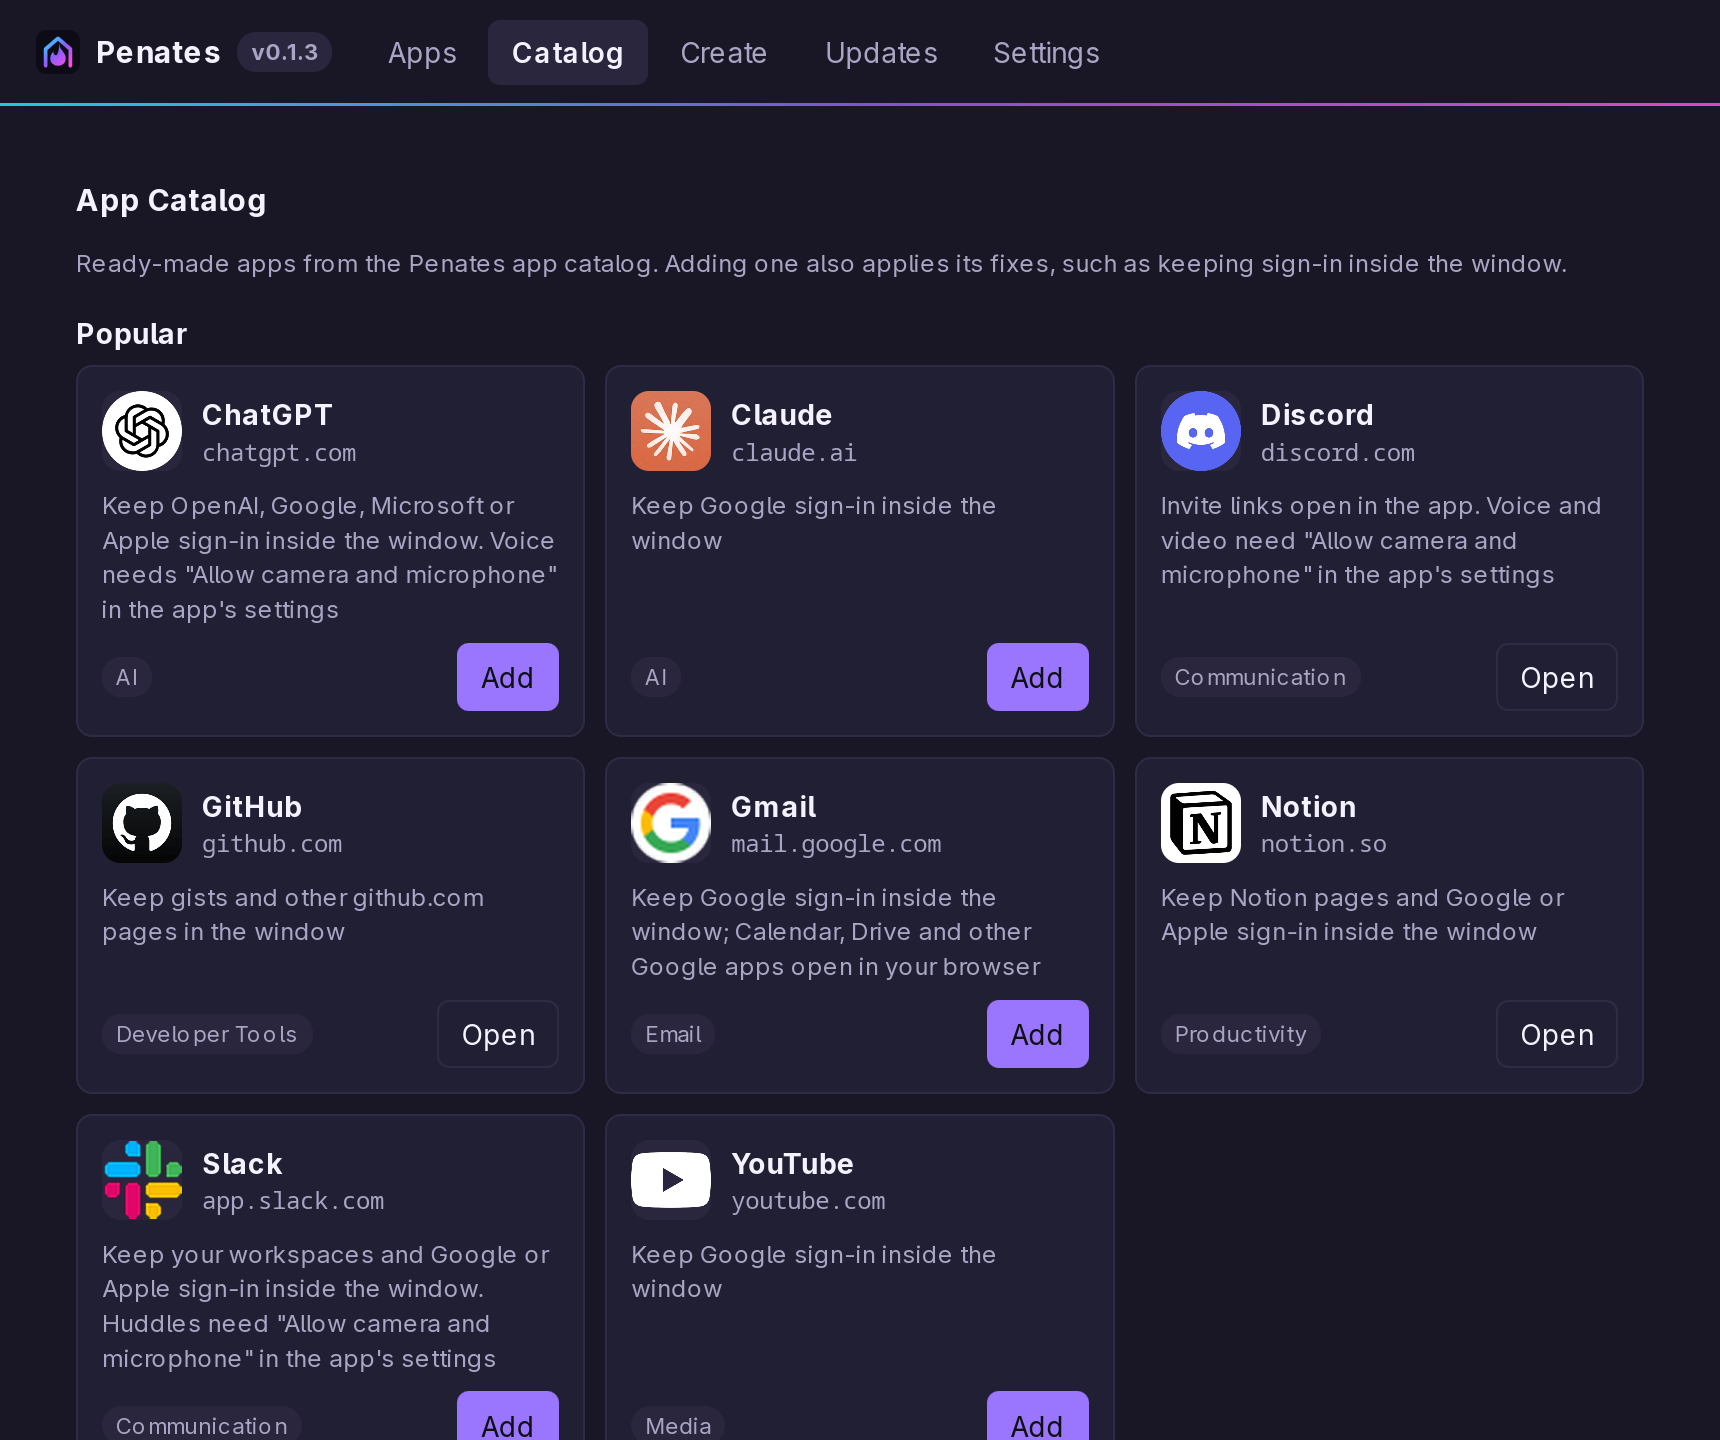
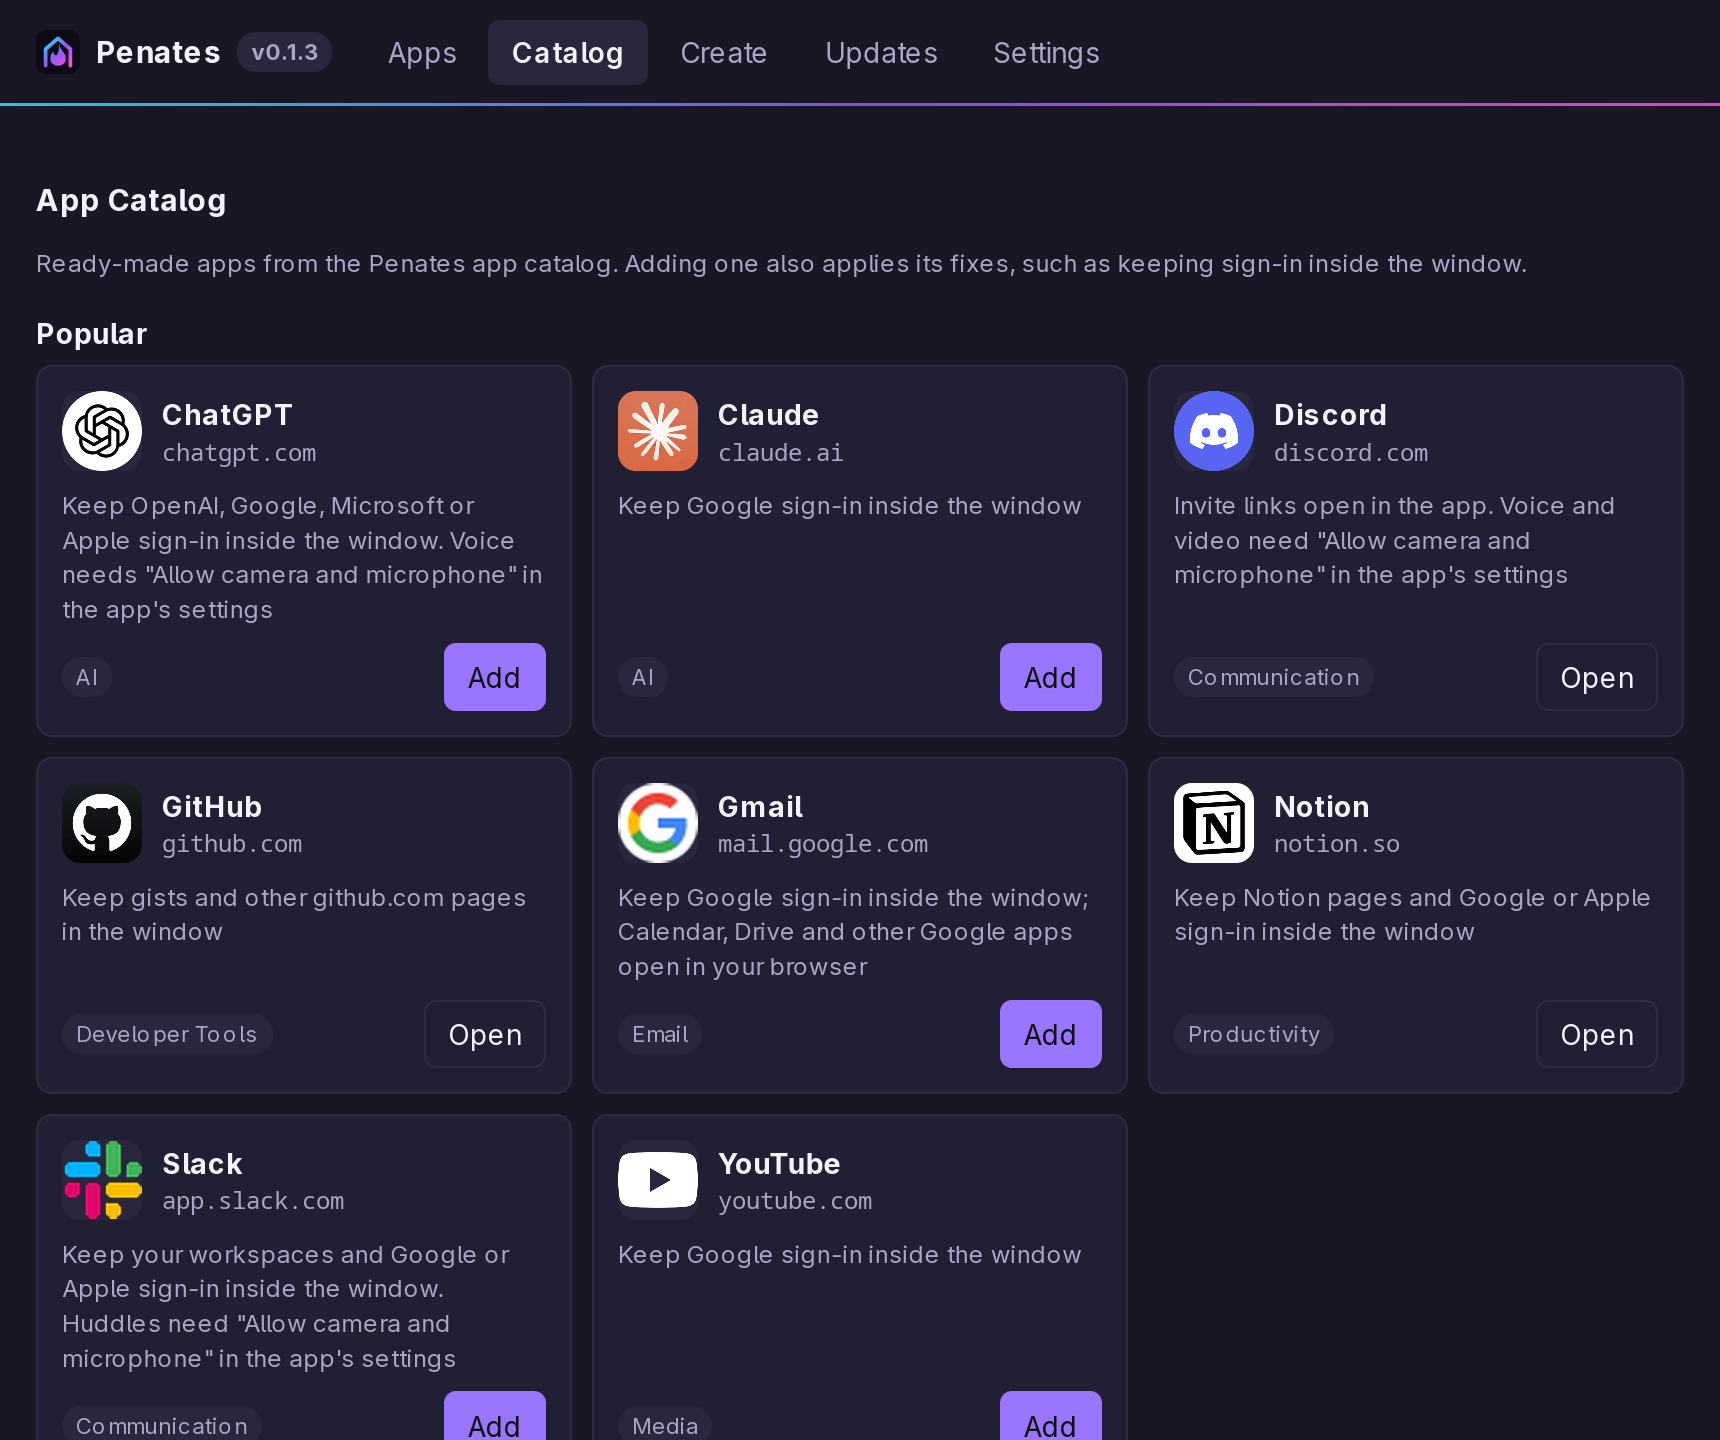
App Catalog: a wider page (up to 1280px) so a maximized window shows more cards per row; forms keep their 820px column

diff --git a/design/preview/penates-manager.html b/design/preview/penates-manager.html
@@ -141,6 +141,8 @@ nav button{background:none;border:0;padding:6px 12px;border-radius:var(--radius)
 nav button[aria-current=page]{background:var(--chip);color:var(--fg);font-weight:600}
 .badge{background:var(--accent);color:var(--accent-fg);border-radius:999px;font-size:11px;padding:0 6px;margin-left:4px}
 main{padding:18px 18px 90px;max-width:820px;margin:0 auto}
+main[data-tab=catalog]{max-width:1280px}
+main[data-tab=catalog] input[type=search]{max-width:640px}
 button{font:inherit;border:1px solid var(--line);background:var(--card);color:var(--fg);border-radius:var(--radius);padding:6px 11px;cursor:pointer}
 button.primary{background:var(--accent);color:var(--accent-fg);border-color:transparent}
 button.danger{color:var(--danger)}
@@ -1114,6 +1116,7 @@ function show(t) {
   if (t !== "apps") importing = submitting = null; // an unfinished edit is kept; it is still there on Apps
   document.querySelectorAll("nav button").forEach((b) => (b.dataset.tab === t ? b.setAttribute("aria-current", "page") : b.removeAttribute("aria-current")));
   for (const n of TABS) $("tab-" + n).hidden = n !== t;
+  document.querySelector("main").dataset.tab = t; // the Catalog grid gets a wider page than the forms
   $("banner").hidden = t === "updates"; // the Updates tab shows the same notice inline
   render();
 }

diff --git a/ui/index.html b/ui/index.html
@@ -20,6 +20,8 @@ nav button{background:none;border:0;padding:6px 12px;border-radius:var(--radius)
 nav button[aria-current=page]{background:var(--chip);color:var(--fg);font-weight:600}
 .badge{background:var(--accent);color:var(--accent-fg);border-radius:999px;font-size:11px;padding:0 6px;margin-left:4px}
 main{padding:18px 18px 90px;max-width:820px;margin:0 auto}
+main[data-tab=catalog]{max-width:1280px}
+main[data-tab=catalog] input[type=search]{max-width:640px}
 button{font:inherit;border:1px solid var(--line);background:var(--card);color:var(--fg);border-radius:var(--radius);padding:6px 11px;cursor:pointer}
 button.primary{background:var(--accent);color:var(--accent-fg);border-color:transparent}
 button.danger{color:var(--danger)}

diff --git a/ui/app.js b/ui/app.js
@@ -57,6 +57,7 @@ function show(t) {
   if (t !== "apps") importing = submitting = null; // an unfinished edit is kept; it is still there on Apps
   document.querySelectorAll("nav button").forEach((b) => (b.dataset.tab === t ? b.setAttribute("aria-current", "page") : b.removeAttribute("aria-current")));
   for (const n of TABS) $("tab-" + n).hidden = n !== t;
+  document.querySelector("main").dataset.tab = t; // the Catalog grid gets a wider page than the forms
   $("banner").hidden = t === "updates"; // the Updates tab shows the same notice inline
   render();
 }
